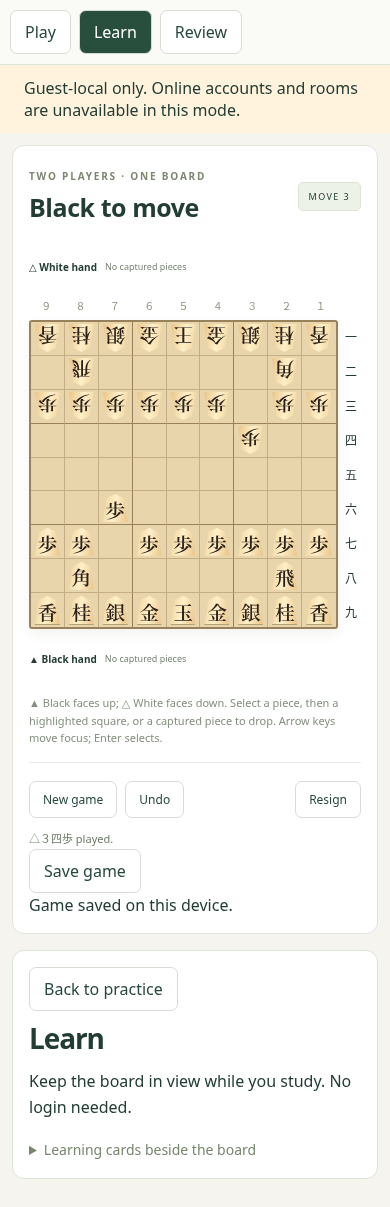
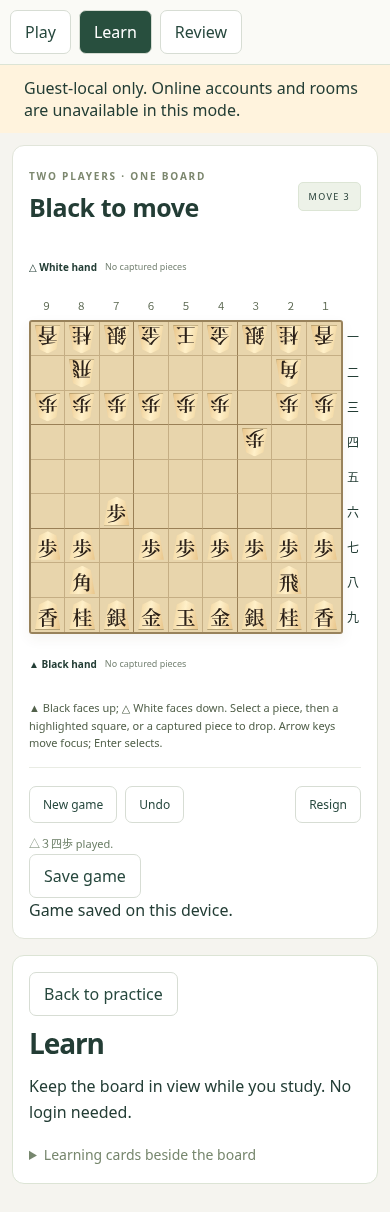
fix: apply workspace styles after base defaults

diff --git a/tests/browser/japanese-workspace.spec.ts b/tests/browser/japanese-workspace.spec.ts
@@ -70,6 +70,11 @@ test('kanji pieces share wood and ink; White rotates physically; promotions and 
   expect(styles.b.transform).toBe('matrix(-1, 0, 0, -1, 0, 0)');
   expect(styles.whiteLetter).toBe('none');
   await expect(page.getByRole('gridcell')).toHaveCount(81);
+  expect(
+    await page
+      .locator('.board-help')
+      .evaluate((e) => getComputedStyle(e).color),
+  ).toBe('rgb(82, 97, 75)');
   await page.locator('[data-square="7g"]').focus();
   await page.keyboard.press('Enter');
   await page.keyboard.press('ArrowUp');

diff --git a/src/app/App.tsx b/src/app/App.tsx
@@ -4,7 +4,6 @@ import { Review } from '../features/review/Review';
 import { useAccess, refreshAccess, assertAnalysisAllowed, guestOnly } from '../features/review/access';
 import { saveGame } from '../features/review/store';
 import '../features/review/review.css';
-import './workspace.css';
 import { QuickLearn } from '../features/learning/QuickLearn';
 import { guestNamespace } from '../features/learning/types';
 import { Online } from '../features/shogi/Online';

diff --git a/src/main.tsx b/src/main.tsx
@@ -2,6 +2,7 @@ import React from 'react';
 import ReactDOM from 'react-dom/client';
 import { App } from './app/App';
 import './app/styles.css';
+import './app/workspace.css';
 
 ReactDOM.createRoot(document.getElementById('root')!).render(
   <React.StrictMode><App /></React.StrictMode>,

diff --git a/docs/JAPANESE_WORKSPACE_RESULTS.md b/docs/JAPANESE_WORKSPACE_RESULTS.md
@@ -58,14 +58,16 @@ Local commands ran serially against Node 24.22.1 / pnpm 11.25.0 and Chromium. `p
 | `pnpm typecheck` | PASS; browser and Worker TypeScript |
 | `pnpm test` | **120/120 PASS**, 13 files; 3.88 s |
 | `pnpm build` | PASS; JS 378.40 kB / CSS 14.44 kB; separate unchanged pinned WASM and 30,016-byte font |
-| `pnpm test:browser` | **19/19 PASS**, 54.1 s |
+| `pnpm test:browser` | **19/19 PASS**, 57.8 s after final stylesheet-order correction |
 | `pnpm test:online` | **6/6 PASS**, 45.5 s |
 | Focused unchanged active-search/reset regression | **5/5 repeated PASS**, 39.6 s, after worker-disposal fix |
 | Git whitespace check | PASS |
 
+The full PR CI check passed on implementation commit `a533afc514e4593055c073ecba93996d81b2d147` in [run 44320264416](https://github.com/Waraku1/shogi-study/actions/runs/44320264416): locked install, both typechecks, unit/release, build, browser and online integration. The subsequent stylesheet-order correction passed the full local browser suite above; the PR reports final-head CI separately.
+
 All 91 existing unit/release tests remain, plus 29 focused tests. The original 14 browser and 5 online tests remain; five browser and one online workspace tests were added. Four obsolete alphabetic/USI **presentation expectations** in the existing browser suite were updated to exact kanji/Japanese strings; no legal-move, lifecycle or fair-play assertion was weakened.
 
-The unchanged reset/dispose regression initially exposed an orphan pthread during an early stop/start race; the adapter correction above fixes it. A duplicate React key discovered in browser output was fixed with separate practice/review keys. Visual inspection also corrected stretched replay file labels and selected-navigation hover contrast; a geometry assertion now checks header/board alignment. Font loading/failure, matching piece colors, full White rotation, red promotion, keyboard/promotion focus, 390 px overflow, collapsible learning, real KIF/CSA downloads and browser reimports are covered.
+The unchanged reset/dispose regression initially exposed an orphan pthread during an early stop/start race; the adapter correction above fixes it. A duplicate React key discovered in browser output was fixed with separate practice/review keys. Visual inspection also corrected stretched replay file labels and selected-navigation hover contrast; a geometry assertion now checks header/board alignment. The workspace stylesheet loads after base styles so intended mobile sizing/contrast apply; computed board-help color is asserted. Font loading/failure, matching piece colors, full White rotation, red promotion, keyboard/promotion focus, 390 px overflow, collapsible learning, real KIF/CSA downloads and browser reimports are covered.
 
 Raw local logs and regenerated screenshots are in gitignored `work/japanese/`. Durable visual evidence from the Chromium tests: [desktop](images/japanese-desktop.png), [390 px mobile](images/japanese-mobile.png), [historical study with real WASM candidates](images/japanese-study.png). These are actual captures, not design mockups. Run `pnpm test:browser` to regenerate them locally. Safari/macOS, VoiceOver, physical mobile and real assistive-technology checks are **NOT TESTED** here; Chromium viewport/keyboard checks do not substitute for them.
 
